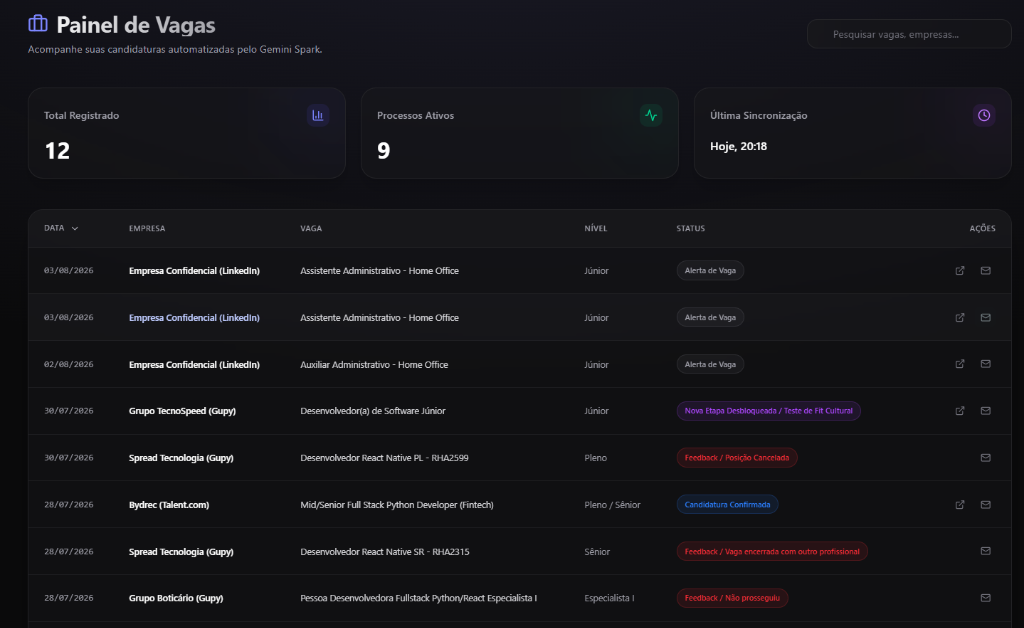
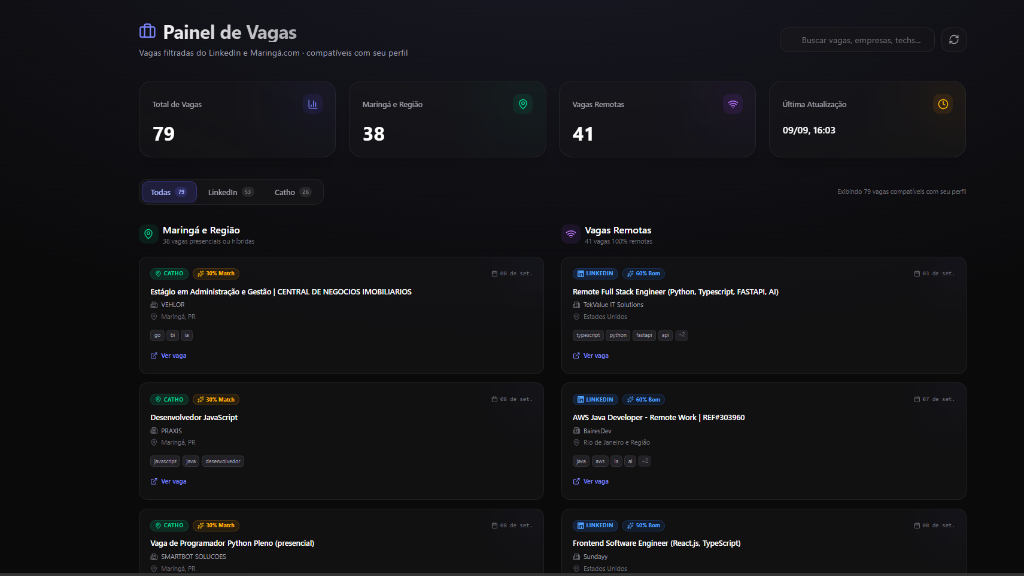
feat: atualizar informacoes e screenshot do Painel de Vagas

diff --git a/src/components/Projects.tsx b/src/components/Projects.tsx
@@ -1,6 +1,6 @@
 import { useState } from 'react';
 import { motion, AnimatePresence } from 'framer-motion';
-import { ExternalLink, Sparkles, Server, Database, Brain, Smartphone, Gamepad2, Layers, ChevronLeft, ChevronRight, BarChart3, TrendingUp } from 'lucide-react';
+import { ExternalLink, Sparkles, Server, Database, Brain, Smartphone, Gamepad2, Layers, ChevronLeft, ChevronRight, BarChart3, TrendingUp, Globe } from 'lucide-react';
 
 interface PhoneMockupProps {
     src?: string;
@@ -471,7 +471,7 @@ const Projects = () => {
                         </div>
                     </motion.div>
 
-                    {/* Featured Project 5 - Painel de Vagas (Dashboard de Candidaturas) */}
+                    {/* Featured Project 5 - Painel de Vagas (Hub de Vagas & Scraping) */}
                     <motion.div
                         initial={{ opacity: 0, scale: 0.95 }}
                         whileInView={{ opacity: 1, scale: 1 }}
@@ -484,18 +484,18 @@ const Projects = () => {
                         <div className="grid md:grid-cols-2 gap-8 p-6 md:p-12 items-center">
                             <div className="space-y-6">
                                 <div className="flex items-center gap-2 text-blue-400 font-medium">
-                                    <BarChart3 className="w-4 h-4" />
-                                    <span>Dashboard Automático & IA</span>
+                                    <Globe className="w-4 h-4" />
+                                    <span>Web Scraping & Match Inteligente</span>
                                 </div>
 
                                 <h3 className="text-2xl md:text-3xl font-bold text-white">Painel de Vagas</h3>
 
                                 <p className="text-slate-400 leading-relaxed">
-                                    Sistema desenvolvido para o monitoramento e gestão de candidaturas automatizadas pelo Gemini Spark. A aplicação consome dados em tempo real através de uma API customizada em Google Apps Script, utilizando o Google Sheets como banco de dados.
+                                    Hub inteligente de monitoramento e agregação de vagas de tecnologia. O sistema executa web scrapers serverless no LinkedIn e na Catho, aplicando um algoritmo de compatibilidade que analisa requisitos técnicos e calcula a pontuação de match com o perfil do desenvolvedor. Conta com segmentação geográfica (Maringá e Região vs. Vagas Remotas), filtros por plataforma e busca em tempo real.
                                 </p>
 
                                 <div className="flex flex-wrap gap-2">
-                                    {['React 19', 'Tailwind CSS 4', 'Google Apps Script', 'Google Sheets', 'Gemini AI', 'Vite'].map((tag) => (
+                                    {['React 19', 'Tailwind CSS 4', 'Vercel Serverless', 'Web Scraping', 'Cheerio', 'Node.js', 'Vite'].map((tag) => (
                                         <span key={tag} className="px-3 py-1 bg-slate-800 text-slate-300 rounded-full text-sm border border-slate-700">
                                             {tag}
                                         </span>
@@ -505,15 +505,19 @@ const Projects = () => {
                                 <div className="grid grid-cols-2 gap-4 py-4">
                                     <div className="flex items-center gap-2 text-slate-300">
                                         <Sparkles className="w-4 h-4 text-blue-500" />
-                                        <span className="text-sm">Integração com Gemini</span>
+                                        <span className="text-sm">Score de Match Inteligente</span>
                                     </div>
                                     <div className="flex items-center gap-2 text-slate-300">
-                                        <Database className="w-4 h-4 text-emerald-500" />
-                                        <span className="text-sm">Sheets API Customizada</span>
+                                        <Globe className="w-4 h-4 text-emerald-500" />
+                                        <span className="text-sm">Scrapers LinkedIn & Catho</span>
                                     </div>
                                     <div className="flex items-center gap-2 text-slate-300">
                                         <BarChart3 className="w-4 h-4 text-indigo-500" />
-                                        <span className="text-sm">Métricas em Tempo Real</span>
+                                        <span className="text-sm">Maringá & Vagas Remotas</span>
+                                    </div>
+                                    <div className="flex items-center gap-2 text-slate-300">
+                                        <Server className="w-4 h-4 text-violet-500" />
+                                        <span className="text-sm">API Serverless & Cache</span>
                                     </div>
                                 </div>
 

diff --git a/vite.config.ts b/vite.config.ts
@@ -4,5 +4,5 @@ import react from '@vitejs/plugin-react'
 // https://vite.dev/config/
 export default defineConfig({
   plugins: [react()],
-  base: '/portfolio-2025/',
+  base: '/',
 })
